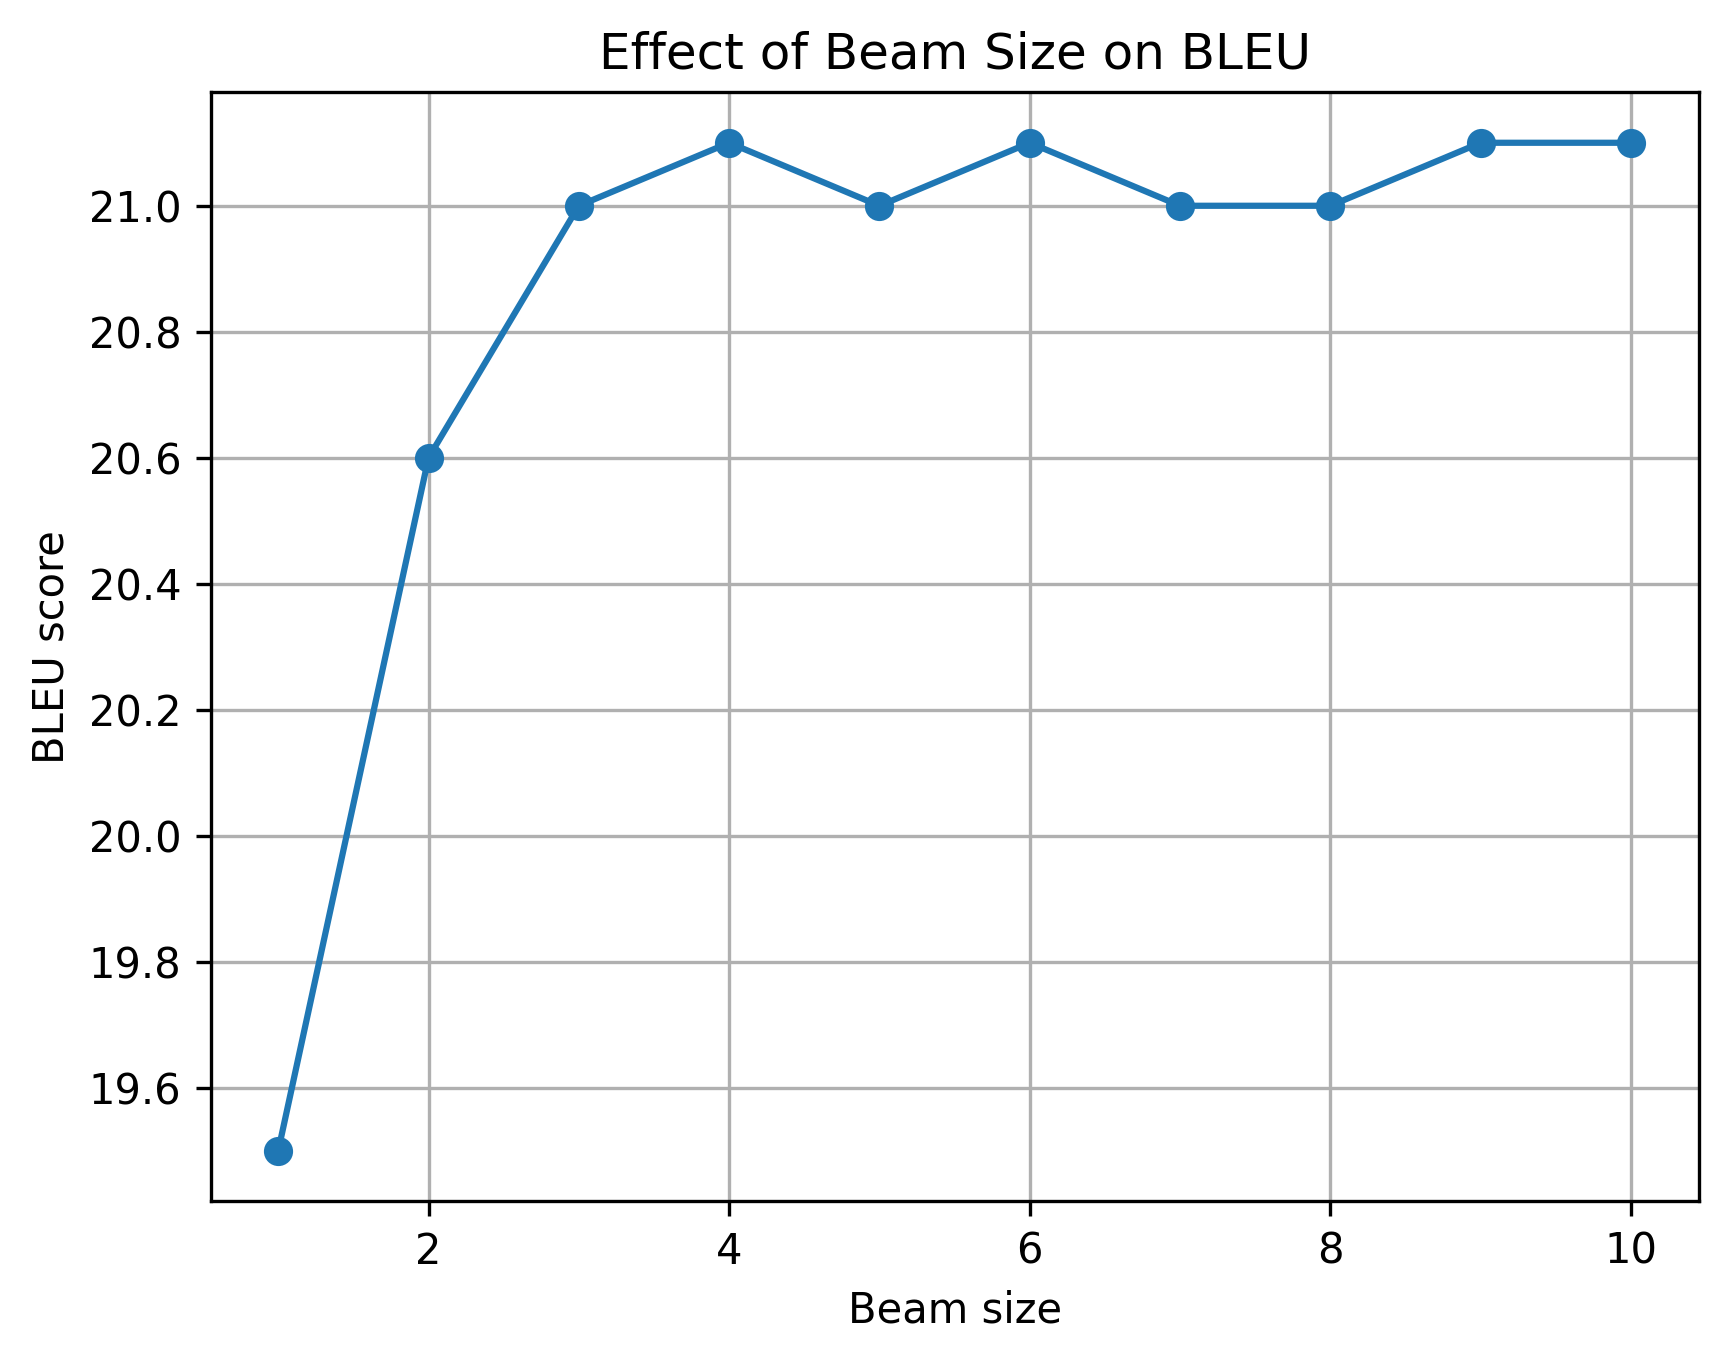
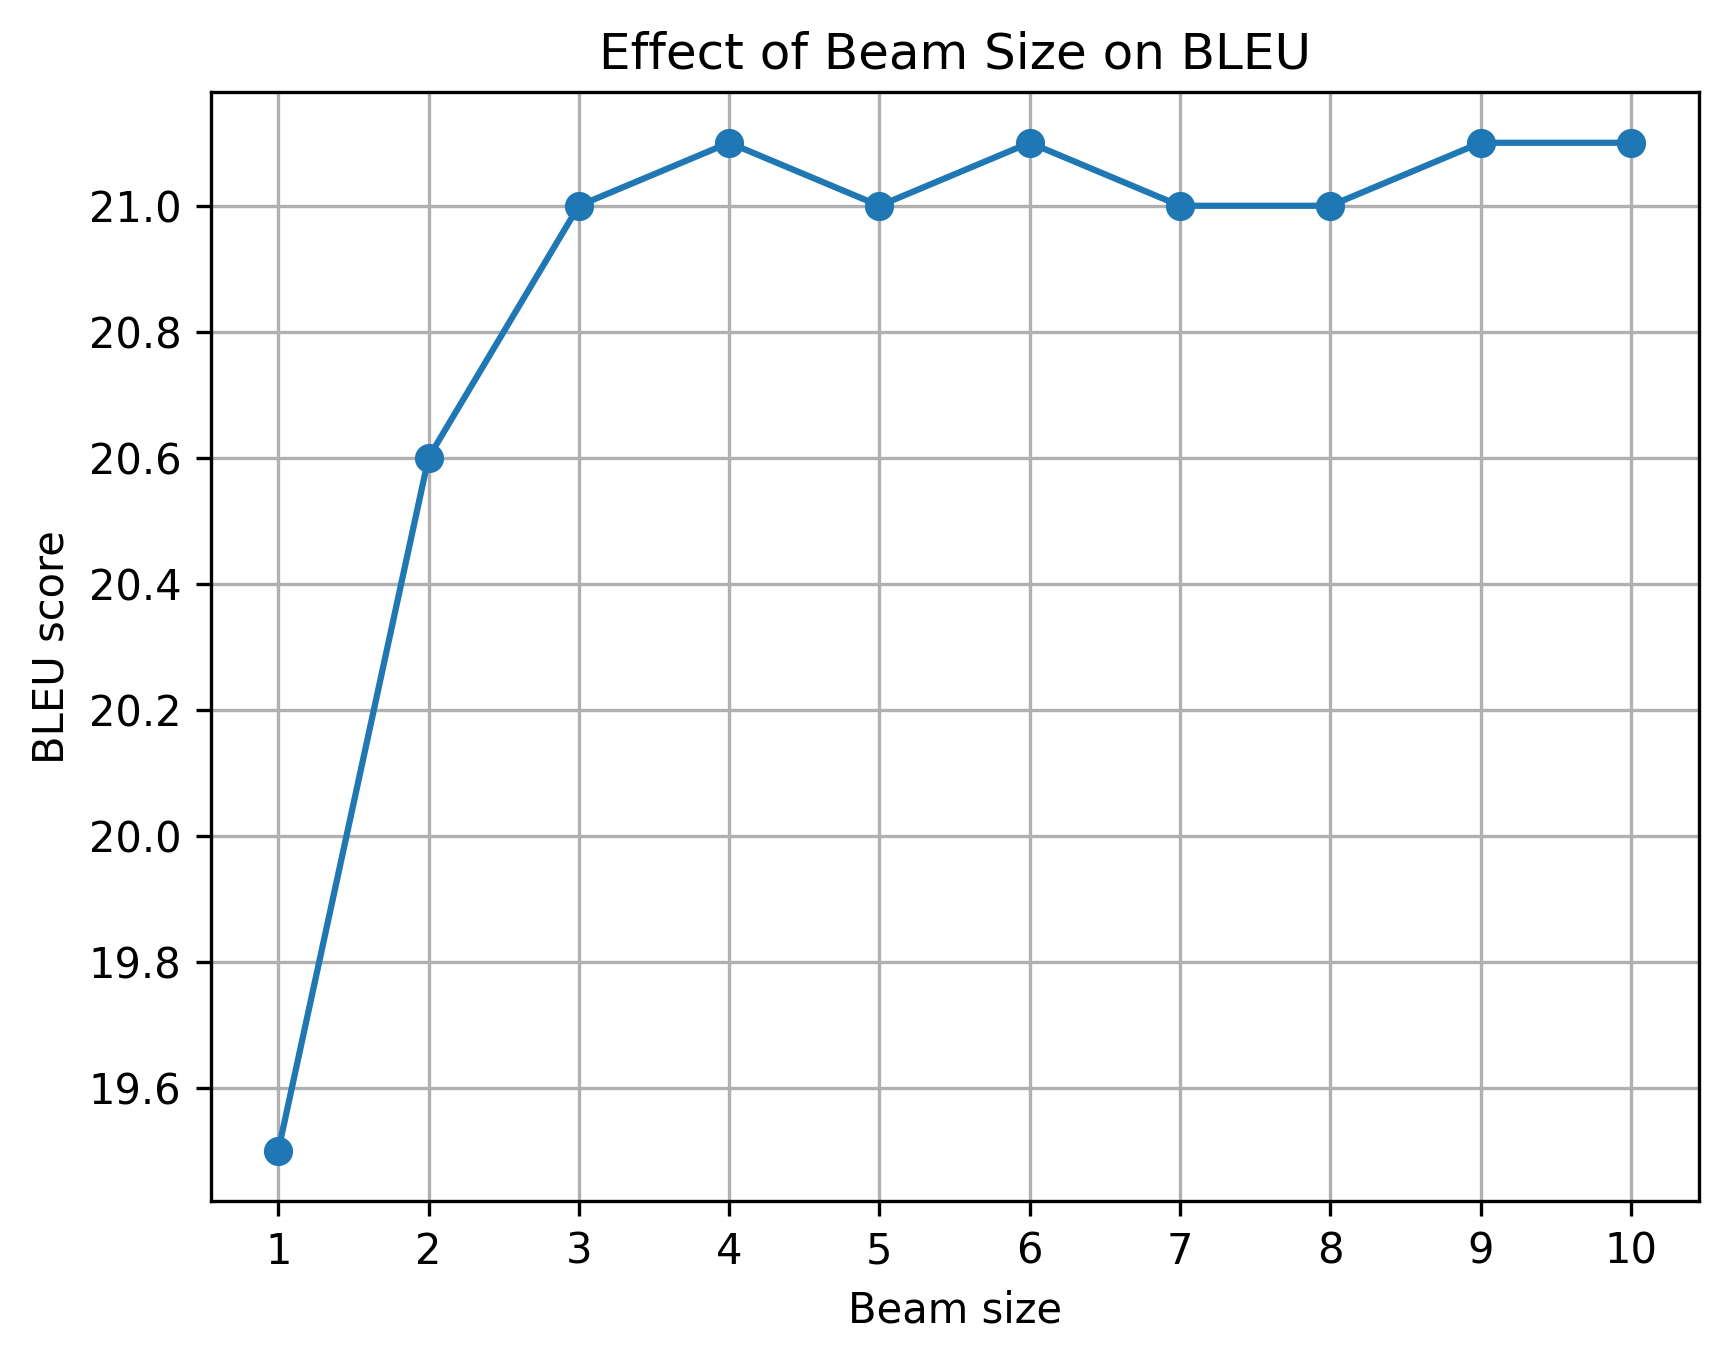
Improve beam plot axis labels

Changed region(s): [[0.8438, 0.8949, 0.875, 0.9258], [0.5, 0.8949, 0.5312, 0.9258], [0.3125, 0.8949, 0.3438, 0.9258]]

diff --git a/scripts/plot_beam_results.py b/scripts/plot_beam_results.py
@@ -3,19 +3,23 @@ import matplotlib.pyplot as plt
 
 df = pd.read_csv("beam_results.csv")
 
+# Graph 1: Beam size vs BLEU
 plt.figure()
 plt.plot(df["beam_size"], df["bleu"], marker="o")
 plt.xlabel("Beam size")
 plt.ylabel("BLEU score")
 plt.title("Effect of Beam Size on BLEU")
+plt.xticks(df["beam_size"])
 plt.grid(True)
 plt.savefig("beam_size_vs_bleu.png", dpi=300, bbox_inches="tight")
 
+# Graph 2: Beam size vs generation time
 plt.figure()
 plt.plot(df["beam_size"], df["time_seconds"], marker="o")
 plt.xlabel("Beam size")
 plt.ylabel("Time in seconds")
 plt.title("Effect of Beam Size on Generation Time")
+plt.xticks(df["beam_size"])
 plt.grid(True)
 plt.savefig("beam_size_vs_time.png", dpi=300, bbox_inches="tight")
 
